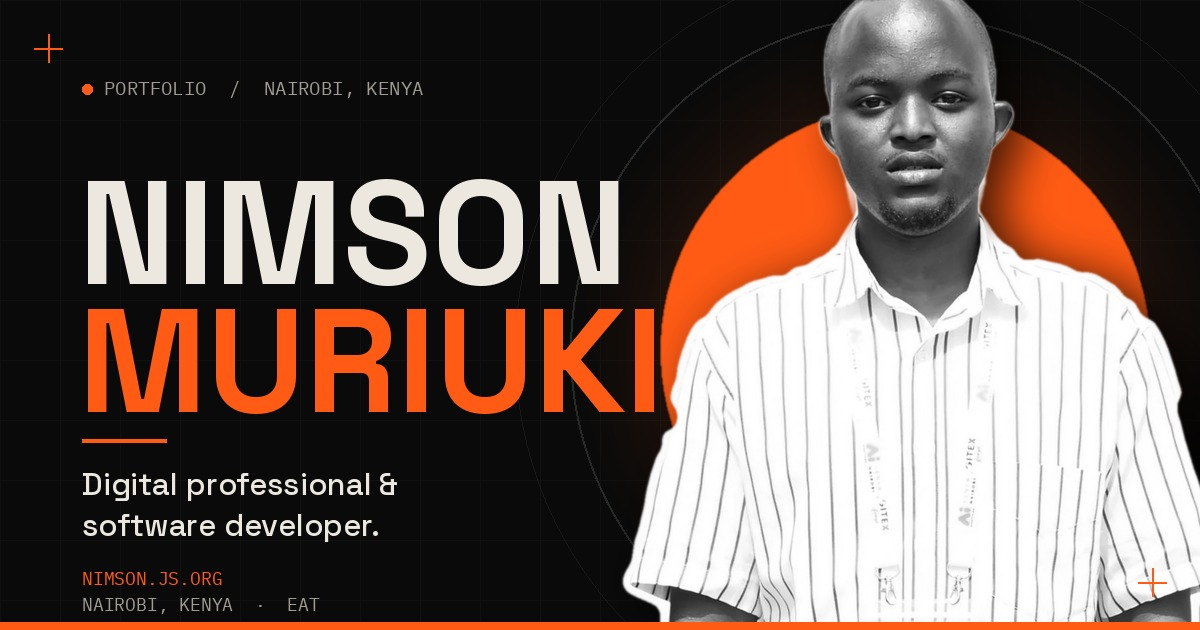
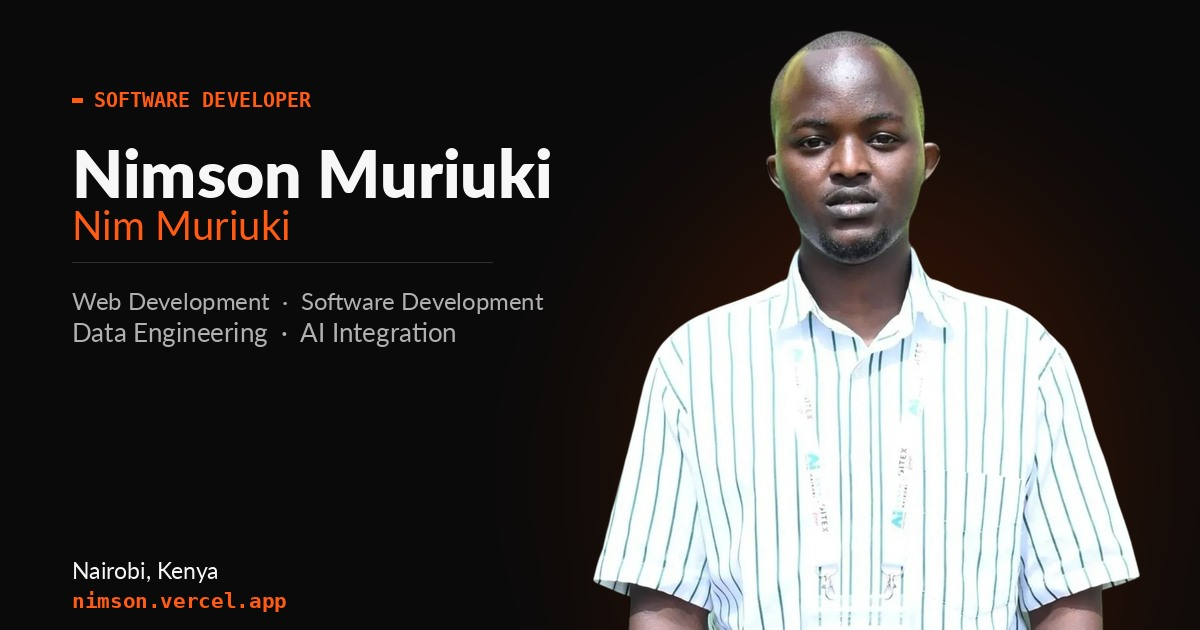
Rebuild social/search preview image from new portrait

diff --git a/public/index.html b/public/index.html
@@ -42,8 +42,8 @@
 <meta property="og:url" content="https://nimson.vercel.app/">
 <meta property="og:title" content="Nimson Muriuki (Nim) | Software Developer">
 <meta property="og:description" content="Nimson Muriuki (Nim Muriuki) is a Kenyan Software Developer in Nairobi focused on Web Development, Software Development, Data Engineering, and AI Integration.">
-<meta property="og:image" content="https://nimson.vercel.app/img/og-image.jpg">
-<meta property="og:image:secure_url" content="https://nimson.vercel.app/img/og-image.jpg">
+<meta property="og:image" content="https://nimson.vercel.app/img/og-image-2.jpg">
+<meta property="og:image:secure_url" content="https://nimson.vercel.app/img/og-image-2.jpg">
 <meta property="og:image:type" content="image/jpeg">
 <meta property="og:image:width" content="1200">
 <meta property="og:image:height" content="630">
@@ -55,7 +55,7 @@
 <meta name="twitter:creator" content="@dfw_nim">
 <meta name="twitter:title" content="Nimson Muriuki (Nim) | Software Developer">
 <meta name="twitter:description" content="Nimson Muriuki (Nim Muriuki) is a Kenyan Software Developer in Nairobi focused on Web Development, Software Development, Data Engineering, and AI Integration.">
-<meta name="twitter:image" content="https://nimson.vercel.app/img/og-image.jpg">
+<meta name="twitter:image" content="https://nimson.vercel.app/img/og-image-2.jpg">
 <meta name="twitter:image:alt" content="Nimson Muriuki (Nim), Kenyan Software Developer based in Nairobi">
 
 <!-- Fonts -->
@@ -77,7 +77,7 @@
       "email": "nimmuriuki6@gmail.com",
       "url": "https://nimson.vercel.app/",
       "mainEntityOfPage": { "@id": "https://nimson.vercel.app/#webpage" },
-      "image": "https://nimson.vercel.app/img/og-image.jpg",
+      "image": "https://nimson.vercel.app/img/photo-1.webp",
       "description": "Nimson Muriuki (Nim Muriuki) is a Kenyan Software Developer in Nairobi focused on Web Development, Software Development, Data Engineering, and AI Integration.",
       "address": {
         "@type": "PostalAddress",
@@ -134,7 +134,7 @@
       "mainEntity": { "@id": "https://nimson.vercel.app/#person" },
       "primaryImageOfPage": {
         "@type": "ImageObject",
-        "url": "https://nimson.vercel.app/img/og-image.jpg",
+        "url": "https://nimson.vercel.app/img/og-image-2.jpg",
         "width": 1200,
         "height": 630
       },
